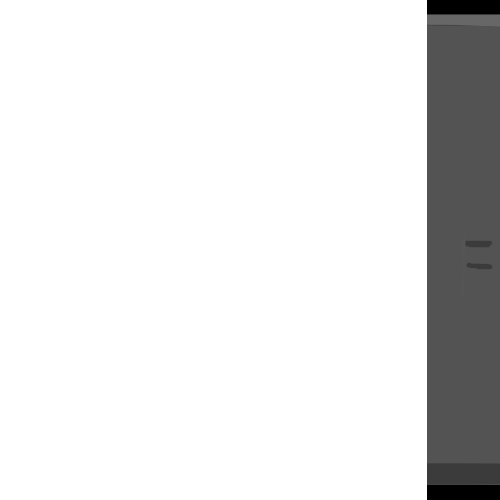
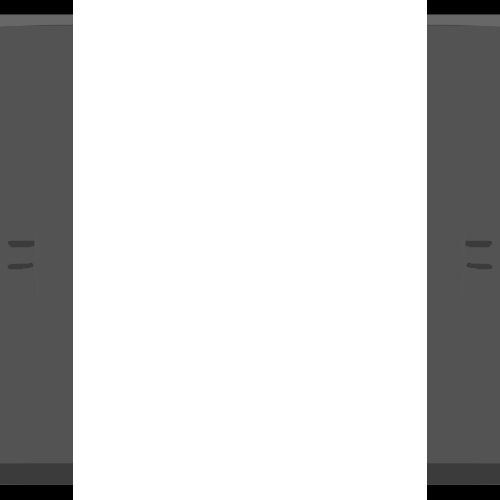
rockes set sprite reworked for new version

Changed region(s): [[0.0, 0.0, 0.15, 1.0]]

diff --git a/Assets/scripts/Units/Rock.cs b/Assets/scripts/Units/Rock.cs
@@ -12,20 +12,39 @@ public class Rock : Unit
             gameObject.GetComponent<SpriteRenderer>().sprite = null;
         else
         {
-            bool[] connected = Toolkit.GetConnectedSides(this);
-            int sidecount = 0;
-            for (int i = 0; i < 4; i++)
-            {
-                sidecount += Convert.ToInt32(connected[i]);
-            }
-            switch (sidecount)
-            {
-                case 0: Connected_0(connected); break;
-                case 1: Connected_1(connected); break;
-                case 2: Connected_2(connected); break;
-                case 3: Connected_3(connected); break;
-                case 4: Connected_4(connected); break;
-            }
+            bool[] notconnected = Toolkit.GetConnectedSides(this);
+            if (notconnected[0] && notconnected[1] && notconnected[2] && notconnected[3])
+                return;
+            else if(notconnected[0] && notconnected[1] && notconnected[2])
+                transform.GetChild(0).GetComponent<SpriteRenderer>().sprite = api.engine.initializer.sprite_Rock[8];
+            else if (notconnected[1] && notconnected[2] && notconnected[3])
+                transform.GetChild(0).GetComponent<SpriteRenderer>().sprite = api.engine.initializer.sprite_Rock[9];
+            else if (notconnected[2] && notconnected[3] && notconnected[0]) 
+                transform.GetChild(0).GetComponent<SpriteRenderer>().sprite = api.engine.initializer.sprite_Rock[10];
+            else if (notconnected[3] && notconnected[0] && notconnected[1])
+                transform.GetChild(0).GetComponent<SpriteRenderer>().sprite = api.engine.initializer.sprite_Rock[11];
+            else if (notconnected[0] && notconnected[1])
+                transform.GetChild(0).GetComponent<SpriteRenderer>().sprite = api.engine.initializer.sprite_Rock[7];
+            else if (notconnected[1] && notconnected[2])
+                transform.GetChild(0).GetComponent<SpriteRenderer>().sprite = api.engine.initializer.sprite_Rock[5];
+            else if (notconnected[2] && notconnected[3])
+                transform.GetChild(0).GetComponent<SpriteRenderer>().sprite = api.engine.initializer.sprite_Rock[4];
+            else if (notconnected[3] && notconnected[0])
+                transform.GetChild(0).GetComponent<SpriteRenderer>().sprite = api.engine.initializer.sprite_Rock[6];
+            else if (notconnected[0] && notconnected[2])
+                transform.GetChild(0).GetComponent<SpriteRenderer>().sprite = api.engine.initializer.sprite_Rock[13];
+            else if (notconnected[1] && notconnected[3])
+                transform.GetChild(0).GetComponent<SpriteRenderer>().sprite = api.engine.initializer.sprite_Rock[12];
+            else if (notconnected[0])
+                transform.GetChild(0).GetComponent<SpriteRenderer>().sprite = api.engine.initializer.sprite_Rock[3];
+            else if (notconnected[1])
+                transform.GetChild(0).GetComponent<SpriteRenderer>().sprite = api.engine.initializer.sprite_Rock[1];
+            else if (notconnected[2])
+                transform.GetChild(0).GetComponent<SpriteRenderer>().sprite = api.engine.initializer.sprite_Rock[0];
+            else if (notconnected[3])
+                transform.GetChild(0).GetComponent<SpriteRenderer>().sprite = api.engine.initializer.sprite_Rock[2];
+            else
+                transform.GetChild(0).GetComponent<SpriteRenderer>().sprite = api.engine.initializer.sprite_Rock[14];
         }
 
     }

diff --git a/Assets/scripts/Toolkit.cs b/Assets/scripts/Toolkit.cs
@@ -444,10 +444,10 @@ public sealed class Toolkit{
     public static bool[] GetConnectedSides(Unit unit)
     {
         bool[] result = new bool[4];
-        result[0] = IsConnectedFromPosition(unit, VectorSum(unit.position, Direction.Up));
-        result[1] = IsConnectedFromPosition(unit, VectorSum(unit.position, Direction.Right));
-        result[2] = IsConnectedFromPosition(unit, VectorSum(unit.position, Direction.Down));
-        result[3] = IsConnectedFromPosition(unit, VectorSum(unit.position, Direction.Left));
+        result[0] = !IsConnectedFromPosition(unit, VectorSum(unit.position, Direction.Up));
+        result[1] = !IsConnectedFromPosition(unit, VectorSum(unit.position, Direction.Right));
+        result[2] = !IsConnectedFromPosition(unit, VectorSum(unit.position, Direction.Down));
+        result[3] = !IsConnectedFromPosition(unit, VectorSum(unit.position, Direction.Left));
         
         return result;
     }

diff --git a/Assets/scripts/LogicalEngine/SubEngine_Initializer.cs b/Assets/scripts/LogicalEngine/SubEngine_Initializer.cs
@@ -17,7 +17,7 @@ public class SubEngine_Initializer{
         api = engine.apiunit;
 
         sprite_Container = new Sprite[5];
-        sprite_Rock = new Sprite[6];
+        sprite_Rock = new Sprite[15];
         sprite_Ramp = new Sprite[4];
         sprite_Branch = new Sprite[4];
         string containerrootpath = "Containers\\Connected";
@@ -25,7 +25,7 @@ public class SubEngine_Initializer{
         string branchrootpath = "Branch\\";
         string ramprootpath = "Ramps\\Rock Half";
 
-        for (int i=0; i < 6; i++)
+        for (int i=0; i < 15; i++)
         {
             string rockpath = rockrootpath + "" + (i + 1);
             sprite_Rock[i] = Resources.Load<Sprite>(rockpath);

diff --git a/Assets/scripts/LogicalEngine/InputController.cs b/Assets/scripts/LogicalEngine/InputController.cs
@@ -273,7 +273,7 @@ public class InputController {
                 if (Toolkit.HasBranch(Toolkit.VectorSum(player.position, direction)))
                 {
                     player.SetState(PlayerState.Busy);
-                    Toolkit.GetBranch(Toolkit.VectorSum(player.position, direction)).PlayerMove(Toolkit.ReverseDirection(direction), player);
+                    Toolkit.GetBranch(Toolkit.VectorSum(player.position, direction)).PlayerMove (Toolkit.ReverseDirection(direction), player);
                     //player.SetState(PlayerState.Idle);
                     return;
                 }
